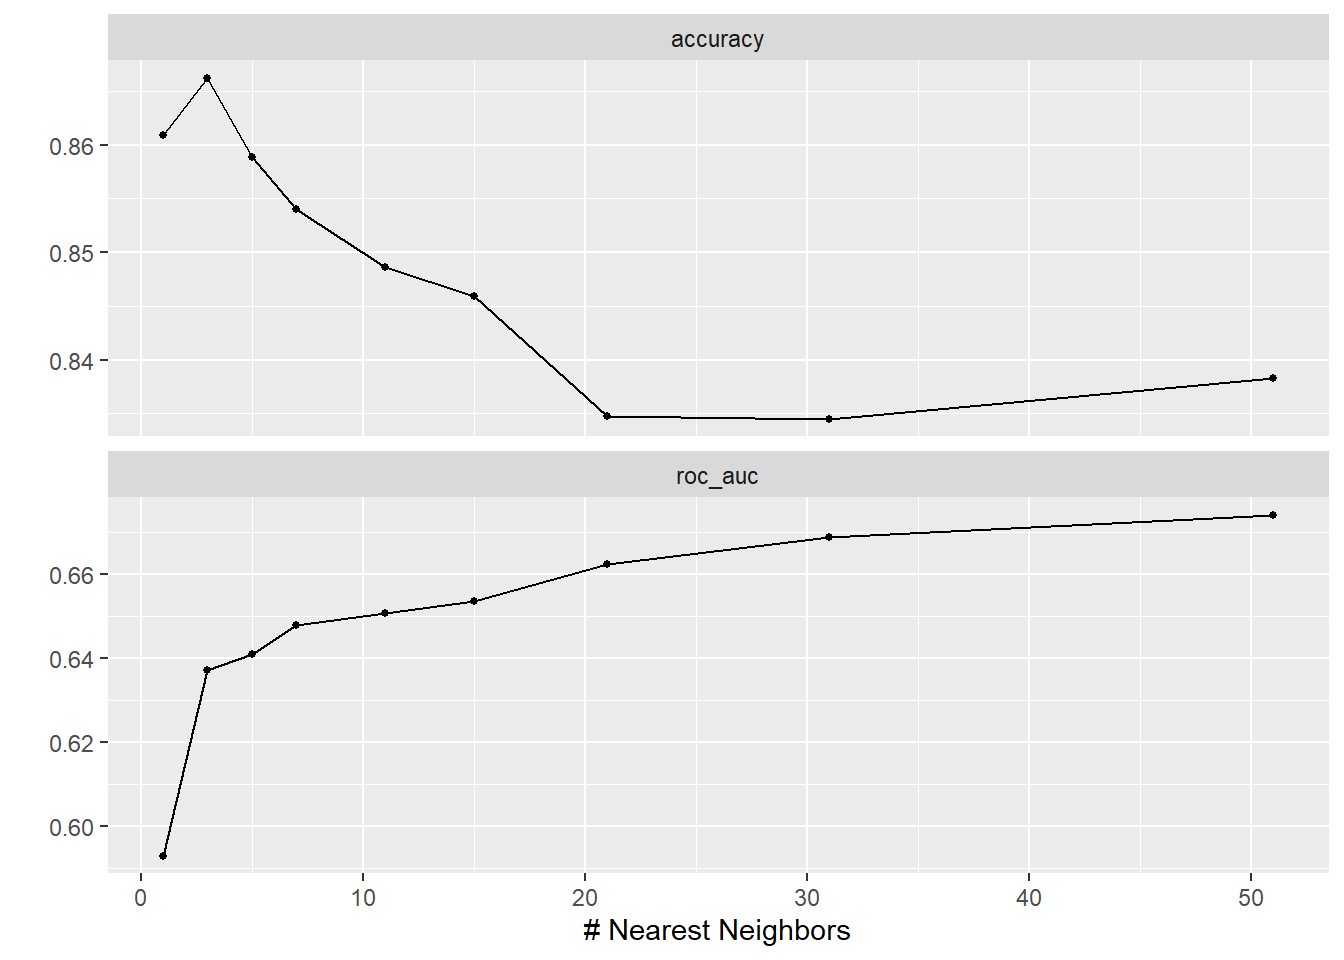
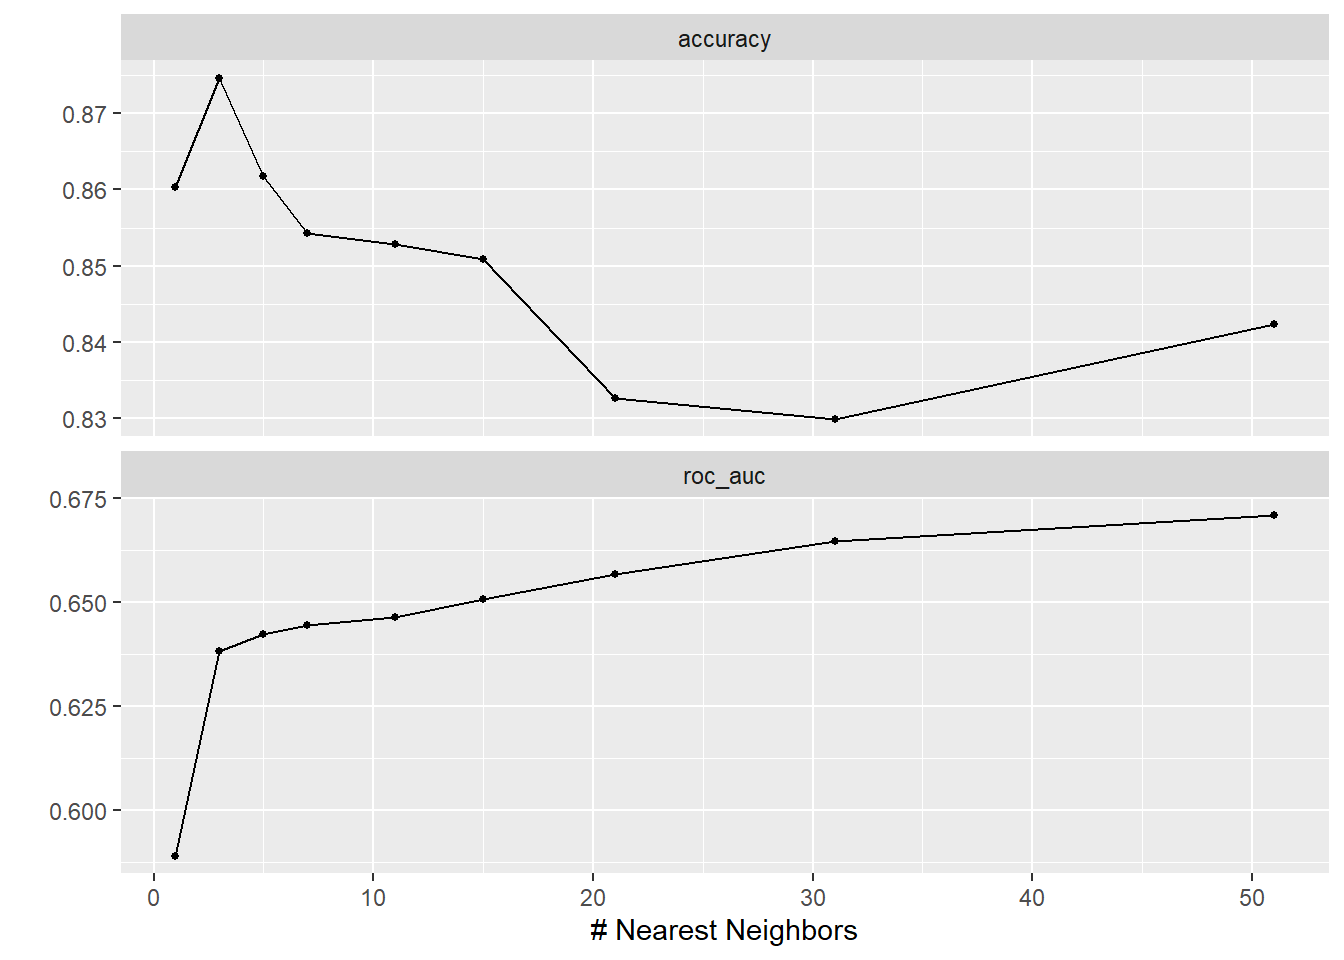
Update docs/

diff --git a/docs/models/knn.html b/docs/models/knn.html
@@ -468,11 +468,11 @@ Computational engine: kknn </code></pre>
 <pre><code># A tibble: 5 × 7
   neighbors .metric .estimator  mean     n std_err .config        
       &lt;dbl&gt; &lt;chr&gt;   &lt;chr&gt;      &lt;dbl&gt; &lt;int&gt;   &lt;dbl&gt; &lt;chr&gt;          
-1        51 roc_auc binary     0.674     5 0.00918 pre0_mod9_post0
-2        31 roc_auc binary     0.669     5 0.00737 pre0_mod8_post0
-3        21 roc_auc binary     0.662     5 0.00749 pre0_mod7_post0
-4        15 roc_auc binary     0.654     5 0.00933 pre0_mod6_post0
-5        11 roc_auc binary     0.651     5 0.00901 pre0_mod5_post0</code></pre>
+1        51 roc_auc binary     0.671     5 0.00998 pre0_mod9_post0
+2        31 roc_auc binary     0.665     5 0.00937 pre0_mod8_post0
+3        21 roc_auc binary     0.657     5 0.00914 pre0_mod7_post0
+4        15 roc_auc binary     0.651     5 0.00799 pre0_mod6_post0
+5        11 roc_auc binary     0.646     5 0.00654 pre0_mod5_post0</code></pre>
 </div>
 </div>
 </section>
@@ -517,9 +517,9 @@ Computational engine: kknn </code></pre>
 <pre><code># A tibble: 3 × 6
   .metric     .estimator  mean     n std_err .config        
   &lt;chr&gt;       &lt;chr&gt;      &lt;dbl&gt; &lt;int&gt;   &lt;dbl&gt; &lt;chr&gt;          
-1 accuracy    binary     0.838     5 0.00442 pre0_mod0_post0
-2 brier_class binary     0.116     5 0.00252 pre0_mod0_post0
-3 roc_auc     binary     0.674     5 0.00918 pre0_mod0_post0</code></pre>
+1 accuracy    binary     0.842     5 0.00778 pre0_mod0_post0
+2 brier_class binary     0.114     5 0.00305 pre0_mod0_post0
+3 roc_auc     binary     0.671     5 0.00998 pre0_mod0_post0</code></pre>
 </div>
 </div>
 <p>This is an honest, CV-estimated performance for our single chosen <code>K</code>. Our metrics look good, so we’ll lock in and evaluate this <code>K</code> on our test set.</p>
@@ -584,11 +584,11 @@ Computational engine: kknn </code></pre>
 <pre><code># A tibble: 5 × 4
   .metric     .estimator .estimate .config        
   &lt;chr&gt;       &lt;chr&gt;          &lt;dbl&gt; &lt;chr&gt;          
-1 accuracy    binary         0.840 pre0_mod0_post0
-2 kap         binary         0.126 pre0_mod0_post0
-3 sensitivity binary         0.859 pre0_mod0_post0
-4 specificity binary         0.420 pre0_mod0_post0
-5 roc_auc     binary         0.705 pre0_mod0_post0</code></pre>
+1 accuracy    binary         0.846 pre0_mod0_post0
+2 kap         binary         0.109 pre0_mod0_post0
+3 sensitivity binary         0.869 pre0_mod0_post0
+4 specificity binary         0.358 pre0_mod0_post0
+5 roc_auc     binary         0.698 pre0_mod0_post0</code></pre>
 </div>
 </div>
 <p>These metrics are not too different from our CV sanity-check metrics, so we can say our KNN generalizes.</p>
@@ -606,16 +606,16 @@ Computational engine: kknn </code></pre>
 <pre><code># A tibble: 4,899 × 5
    .pred_class .pred_0 .pred_1 id               WeaponCarryingSchool
    &lt;fct&gt;         &lt;dbl&gt;   &lt;dbl&gt; &lt;chr&gt;            &lt;fct&gt;               
- 1 0             1       0     train/test split 0                   
- 2 0             0.683   0.317 train/test split 0                   
- 3 0             1       0     train/test split 0                   
- 4 0             1       0     train/test split 0                   
- 5 0             1       0     train/test split 0                   
- 6 0             0.823   0.177 train/test split 0                   
- 7 0             0.819   0.181 train/test split 0                   
- 8 1             0.394   0.606 train/test split 1                   
- 9 1             0.254   0.746 train/test split 0                   
-10 0             0.566   0.434 train/test split 0                   
+ 1 0             1     0       train/test split 0                   
+ 2 0             0.715 0.285   train/test split 0                   
+ 3 0             0.996 0.00377 train/test split 0                   
+ 4 0             0.996 0.00377 train/test split 0                   
+ 5 0             1     0       train/test split 0                   
+ 6 0             0.866 0.134   train/test split 0                   
+ 7 0             0.770 0.230   train/test split 0                   
+ 8 1             0.154 0.846   train/test split 1                   
+ 9 1             0.245 0.755   train/test split 0                   
+10 0             0.584 0.416   train/test split 0                   
 # ℹ 4,889 more rows</code></pre>
 </div>
 </div>
@@ -667,10 +667,10 @@ Computational engine: kknn </code></pre>
 <pre><code># A tibble: 4 × 3
   .metric     .estimator .estimate
   &lt;chr&gt;       &lt;chr&gt;          &lt;dbl&gt;
-1 sensitivity binary         0.420
-2 specificity binary         0.859
-3 accuracy    binary         0.840
-4 kap         binary         0.126</code></pre>
+1 sensitivity binary         0.358
+2 specificity binary         0.869
+3 accuracy    binary         0.846
+4 kap         binary         0.109</code></pre>
 </div>
 </div>
 
